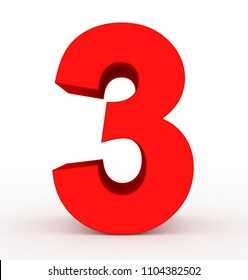
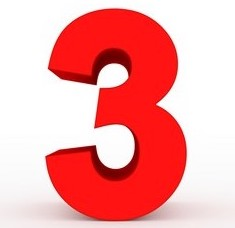
changed images and added borders around them

Changed region(s): [[0.0596, 0.0307, 0.9532, 1.0], [0.0, 0.9211, 0.0298, 1.0]]

diff --git a/index.html b/index.html
@@ -71,9 +71,21 @@
                     <th> <img src="./images/number3.jpeg" alt="for project 3" /></th>
                 </tr>
                 <tr>
-                    <td><h3>RUN BUDDY</h3></td>
-                    <td><h3>ROBOT GLADIATORS</h3></td>
-                    <td><h3>PROJECT #3</h3></td>
+                    <td>
+                        <h3>
+                            <a href="https://jm2103.github.io/run-buddy/">RUN BUDDY</a>
+                        </h3>
+                    </td>
+                    <td>
+                        <h3>
+                            ROBOT GLADIATORS
+                        </h3>
+                    </td>
+                    <td>
+                        <h3>
+                            PROJECT #3
+                        </h3>
+                    </td>
                 </tr>
             </table>
         </div>

diff --git a/style.css b/style.css
@@ -79,6 +79,12 @@
     max-width:120px;
     max-height:100%;
     /* float: left; */
+    border: 3px solid;
+    border-color: #bf1932;
+}
+
+.projects a {
+    color: #bf1932;
 }
 
 .contact-me ul {
